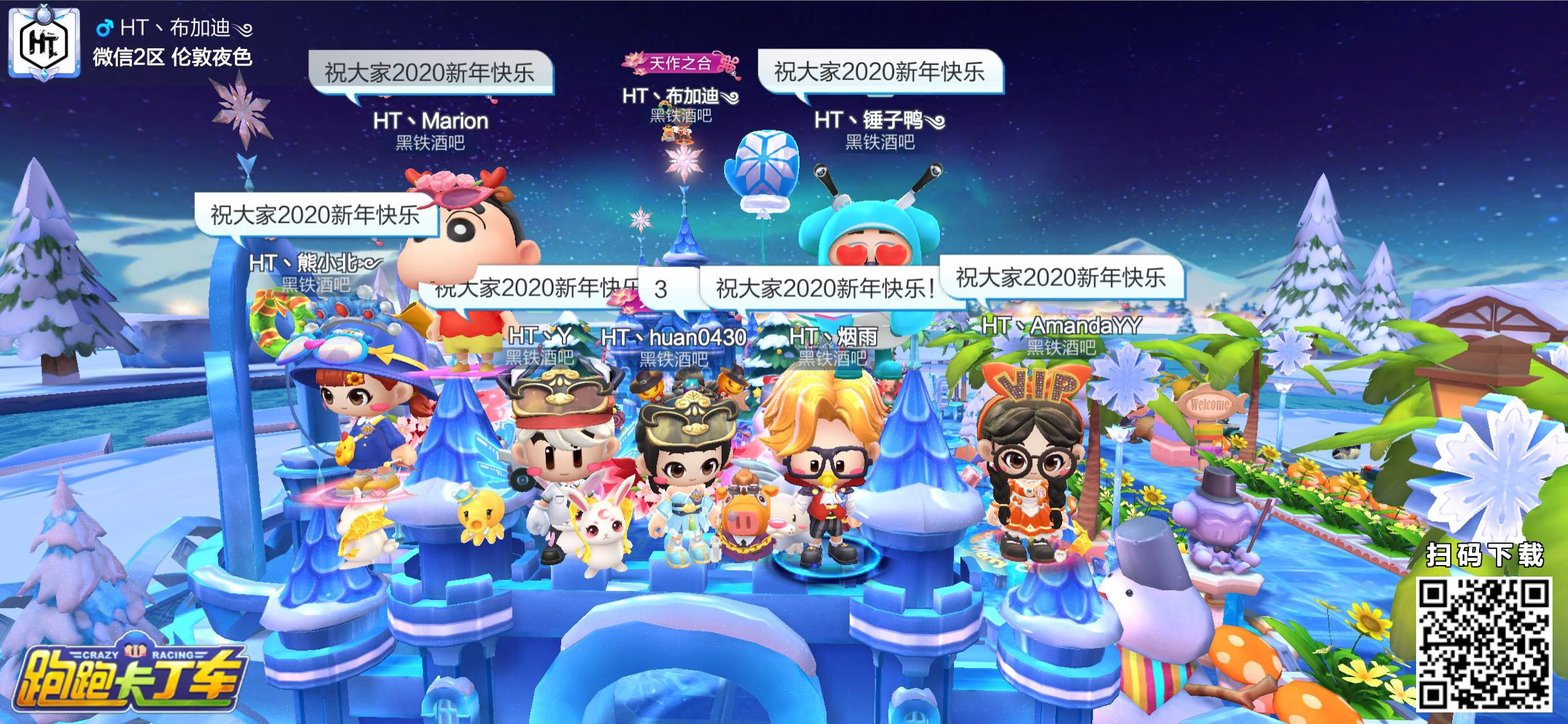
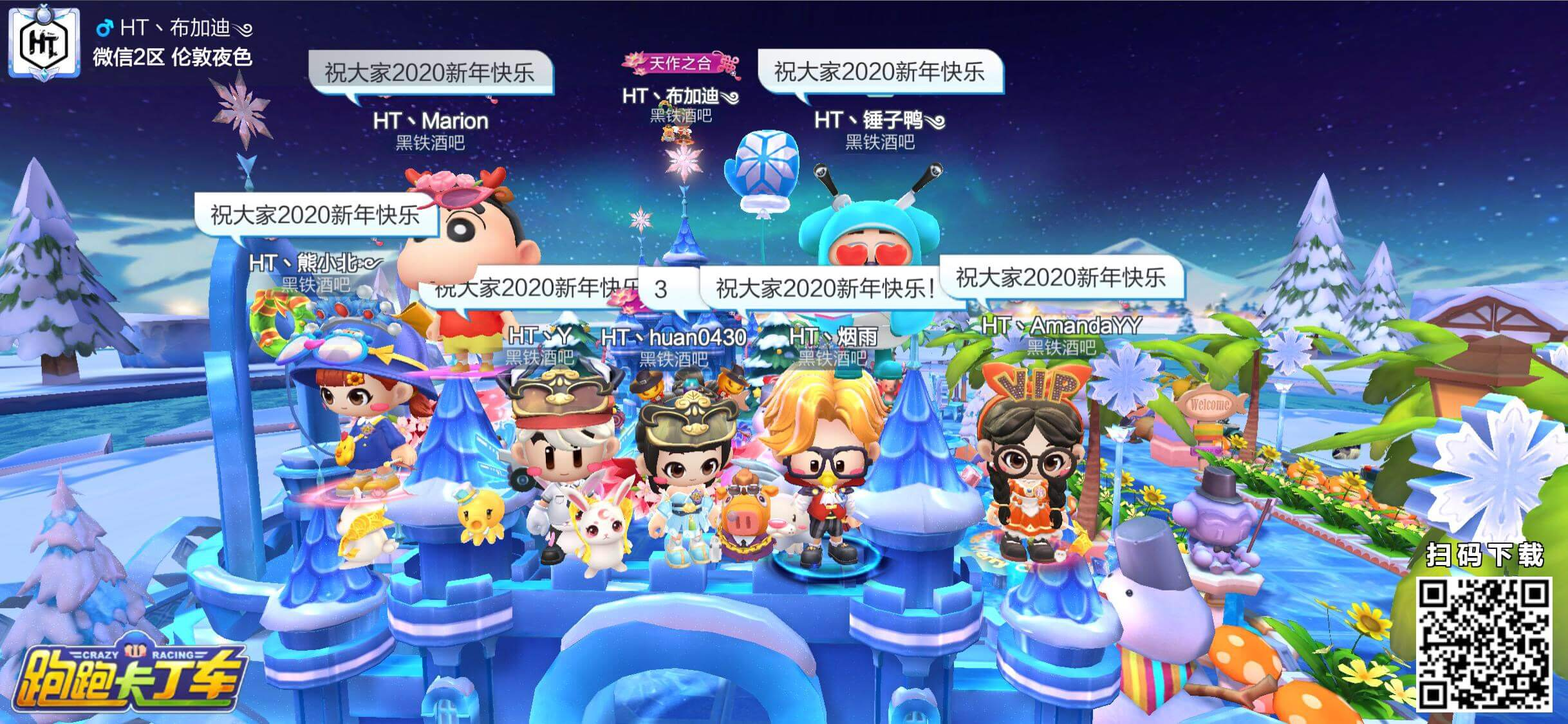
压缩图片

diff --git a/assets/js/script.js b/assets/js/script.js
@@ -1,0 +1,73 @@
+$(function(){
+    var together = new Date();
+    together.setFullYear(2019, 7, 13);
+    together.setHours(0);
+    together.setMinutes(0);
+    together.setSeconds(0);
+    together.setMilliseconds(0);
+
+    var HTObj = {
+        init:function(){
+            var _this = this;
+            this.addEvents();
+            this.timeElapse(together);
+            setInterval(function () {
+                _this.timeElapse(together);
+            }, 500);
+        },
+
+        addEvents:function(){
+            $("#about_scroll").fadeOut();
+            $("#work_scroll").fadeOut();
+            $("#contact_scroll").fadeOut();
+
+            $("#about").click(function(){
+                $("#index").fadeOut();
+                $("#about_scroll").fadeIn();
+                $('#about_left').addClass('animated slideInLeft');
+                $('#about_right').addClass('animated slideInRight');
+            });
+            $("#scanCode").click(function(){
+                $(window).attr('location','https://open.weixin.qq.com/connect/app/qrconnect?appid=wx095ef8ef7e64b291&bundleid=com.tencent.smoba&scope=snsapi_base%2Csnsapi_userinfo%2Csnsapi_friend%2Csnsapi_message&state=weixin');
+            });
+            $("#contact").click(function(){
+                $("#index").fadeOut();
+                $("#contact_scroll").fadeIn();
+                $('#contact_left').addClass('animated slideInLeft');
+                $('#contact_right').addClass('animated slideInRight');
+            });
+
+            $(".back").click(function(){
+                $(".pages").fadeOut();
+                $("#index").fadeIn();
+                $('#index_left').addClass('animated slideInLeft');
+                $('#index_right').addClass('animated slideInRight');
+            });
+        },
+
+
+        timeElapse:function (c) {
+            var e = Date();
+            var f = (Date.parse(e) - Date.parse(c)) / 1000;
+            var g = Math.floor(f / (3600 * 24));
+            f = f % (3600 * 24);
+            var b = Math.floor(f / 3600);
+            if (b < 10) {
+                b = "0" + b
+            }
+            f = f % 3600;
+            var d = Math.floor(f / 60);
+            if (d < 10) {
+                d = "0" + d
+            }
+            f = f % 60;
+            if (f < 10) {
+                f = "0" + f
+            }
+            var a = '&nbsp;<span class="digit"><strong>' + g + '</strong></span> 天 <span class="digit"><strong>' + b + '</strong></span> 小时 <span class="digit"><strong>' + d + '</strong></span> 分钟 <span class="digit"><strong>' + f + "</strong></span> 秒";
+            $("#elapseClock").html(a)
+        }
+    }
+    HTObj.init();
+})
+
